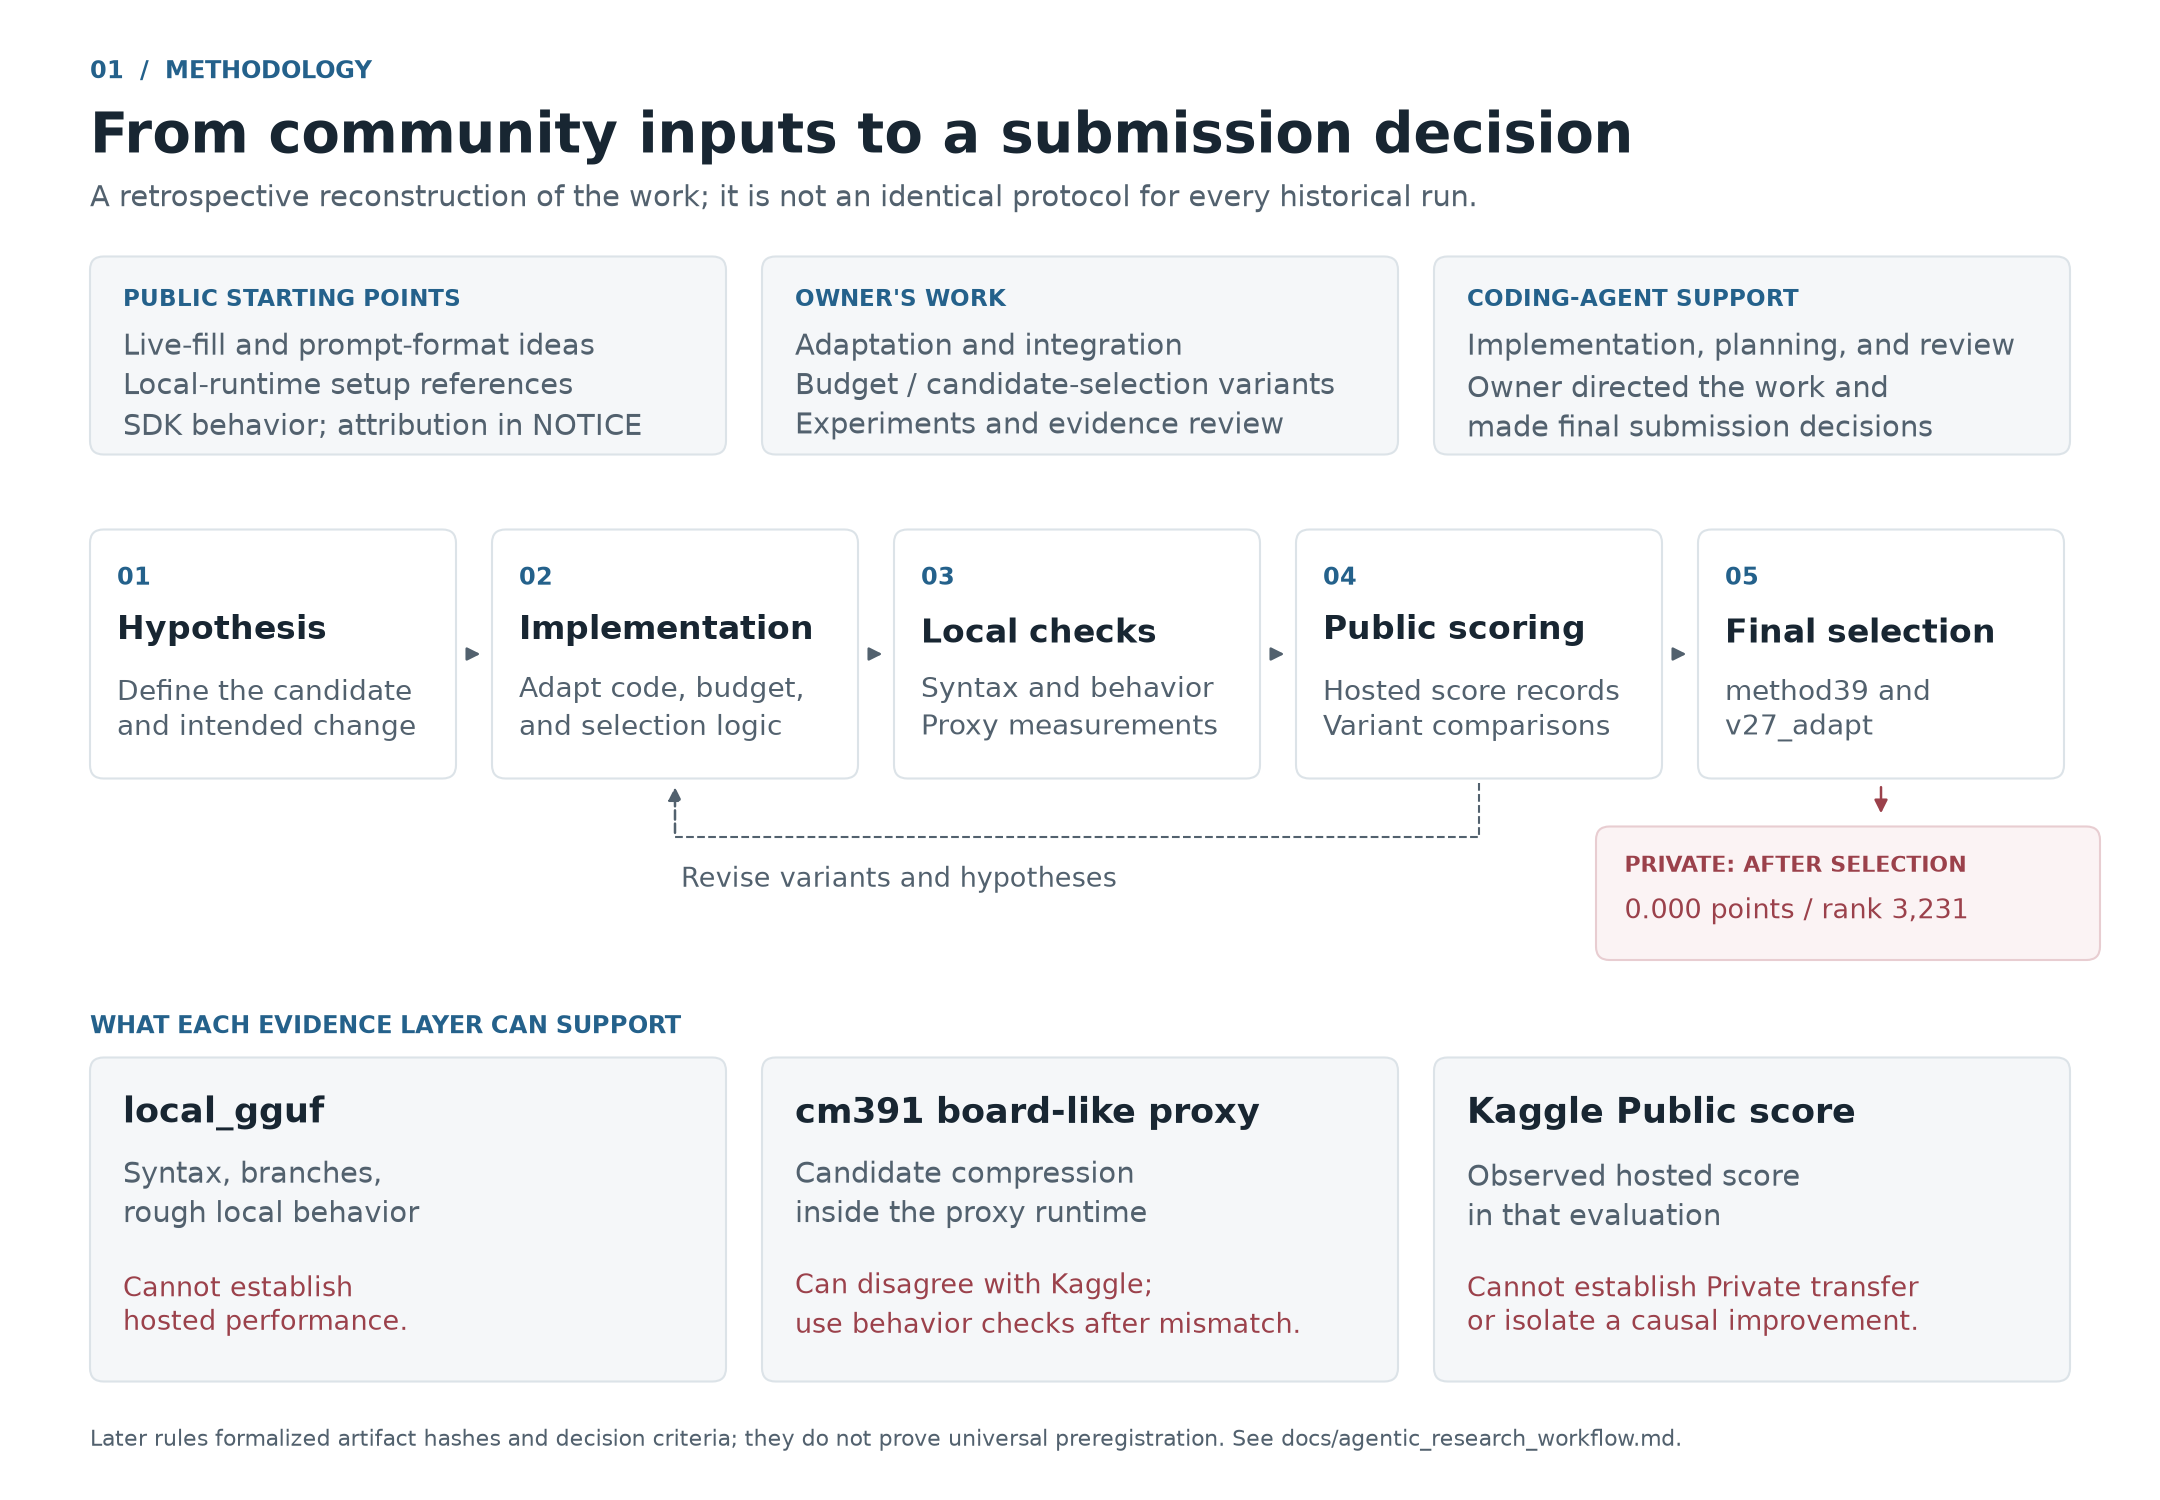
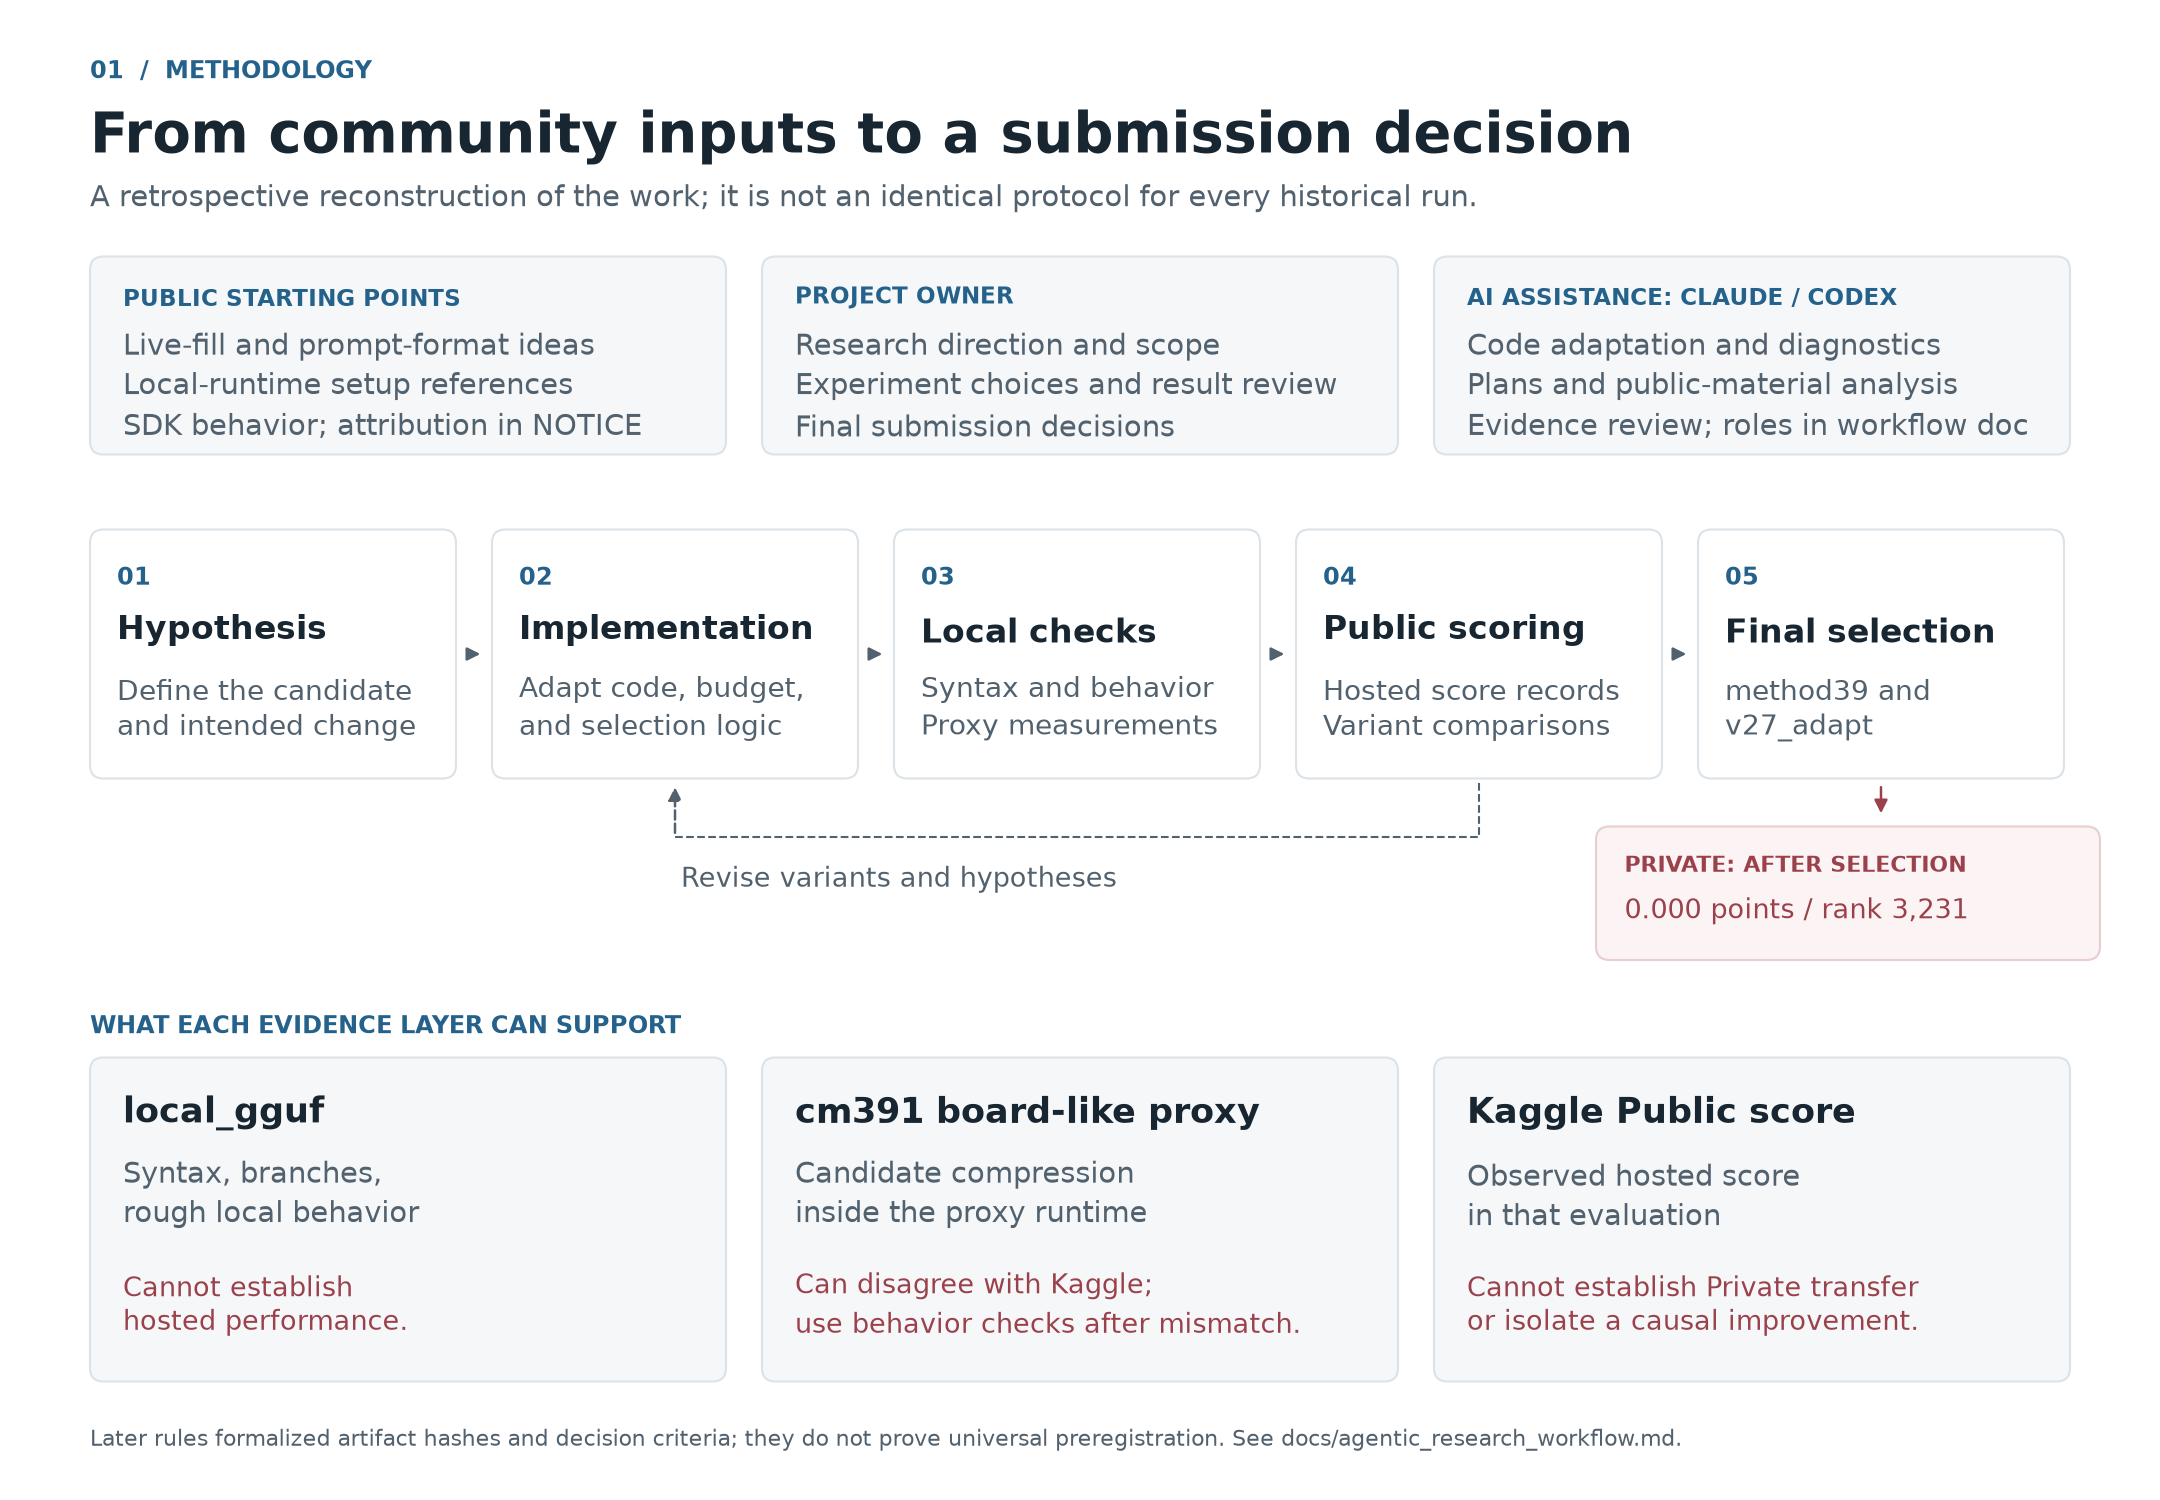
Clarify project contributions and documented AI-assistance roles

Changed region(s): [[0.6824, 0.184, 0.9306, 0.3067], [0.3722, 0.184, 0.6204, 0.3067]]

diff --git a/results/figures/make_project_visuals.py b/results/figures/make_project_visuals.py
@@ -178,8 +178,8 @@ def workflow():
            "A retrospective reconstruction of the work; it is not an identical protocol for every historical run.")
     lanes = [
         ("PUBLIC STARTING POINTS", "Live-fill and prompt-format ideas\nLocal-runtime setup references\nSDK behavior; attribution in NOTICE"),
-        ("OWNER'S WORK", "Adaptation and integration\nBudget / candidate-selection variants\nExperiments and evidence review"),
-        ("CODING-AGENT SUPPORT", "Implementation, planning, and review\nOwner directed the work and\nmade final submission decisions"),
+        ("PROJECT OWNER", "Research direction and scope\nExperiment choices and result review\nFinal submission decisions"),
+        ("AI ASSISTANCE: CLAUDE / CODEX", "Code adaptation and diagnostics\nPlans and public-material analysis\nEvidence review; roles in workflow doc"),
     ]
     for i, (label, body) in enumerate(lanes):
         x = 60 + 448 * i

diff --git a/docs/agentic_research_workflow.md b/docs/agentic_research_workflow.md
@@ -1,11 +1,48 @@
 # How coding agents supported the research
 
-Coding agents assisted with implementation, plans, reviews, and competitor-material
-analysis; I directed the work and made submission decisions. Public notebooks and
-discussions provided substantial starting ideas and code, credited in [NOTICE](../NOTICE).
-The contribution was adaptation, integration, experiments, and evidence review.
-The available log does not justify a precise percentage of AI-written code or a
-fixed author/reviewer role for each model across the entire project.
+This entry combined public starting material, owner-directed experiments, and
+coding-agent assistance. Its engineering contribution was adaptation, integration,
+variant comparisons, diagnostics, and evidence review.
+
+## Contributions and decision ownership
+
+| Contributor or source | Documented contribution | Responsibility or scope |
+|---|---|---|
+| Project owner (Team Sian) | Directed the research, selected experiment changes, and reviewed results with coding-agent support | Made final submission decisions, including the selections discussed in the [post-mortem](postmortem.md) |
+| Claude / Codex | Assisted with implementation, diagnostic code, submission plans, reviews, and public-material analysis | Supported the work; the retained record does not identify the author of every code block or establish causal score gains from an agent |
+| Public notebooks and discussions | Supplied substantial starting ideas, code, and runtime references | Upstream authors and license scope are recorded in [NOTICE](../NOTICE); adaptation is distinguished from independent invention |
+
+### The recorded Claude/Codex task division
+
+Later operating rules assigned the following primary tasks:
+
+| Tool | Assigned tasks |
+|---|---|
+| Claude | New code, submission batch cards, compilation checks, hashes, and path organization |
+| Codex | Evidence-boundary audits, result interpretation, document-conflict checks, and stale/degenerate judgments |
+
+This is a documented task assignment, not proof that the same division held for
+every earlier experiment or that every assigned check was completed. The
+[historical log](experiment_log_ko.md) contains changing plans, interpretations,
+and corrections. It does not support a precise percentage of AI-written code,
+fixed authorship by tool, or a claim that agent review made all measurements valid.
+
+The source is the development archive's `codex/ACTIVE/README_CURRENT.md`, section
+`Claude/Codex 역할 분리`, inspected on October 12, 2026. That control file is not
+bundled here; the following short excerpt preserves the role-assignment evidence.
+It is historical documentation, not an instruction to execute work:
+
+```text
+Claude
+  새 코드 작성
+  제출 배치 카드 작성
+  compile / hash / 경로 정리
+Codex
+  증거 경계 감사
+  결과 해석
+  문서 충돌 점검
+  stale / degenerate 판정
+```
 
 ## The workflow as it developed
 
@@ -68,3 +105,15 @@ recognized uncertainty into selection, rather than merely documenting it.
 A future decision record should ask what evidence supports transfer, what remains
 unknown, and which alternatives cover different failure mechanisms. “Unknown”
 should remain a real answer; a neat template cannot make a hidden outcome known.
+
+## Contribution-writing references
+
+The following first-party project write-ups were consulted on October 12, 2026
+for how to describe contributions. Their workflows and results are the respective
+authors' reports; they are not evidence of what happened in this project.
+
+| Reference | How it describes contributions | Applied here |
+|---|---|---|
+| [CSIRO Image2Biomass agentic solution](https://github.com/Chihiro-n/csiro-biomass-agentic-solution#experiment-workflow) | Names the coding agents, discloses implementation assistance, and describes the human-facing experiment and submission workflow | Name the tools and supported tasks, with decision ownership stated separately; do not borrow its claim about the amount of AI-written implementation |
+| [Kaggriculture solution — Team contributions](https://github.com/msdsm/kaggriculture-solution#team-contributions) | Uses a contributor-to-work table with concrete model, planner, and analysis tasks; source notes appear separately | Use specific activities in a compact table and keep upstream source credit visible |
+| [ROGII Public-LB post-mortem](https://github.com/ElMatiOfficial/kaggle-solutions/blob/main/writeups/20-rogii-wellbore-geology.md) | Separates the inherited public solution from the authors' own measurements and analysis | Distinguish public starting code, adaptation, and this entry's experiment record |

diff --git a/README_KO.md b/README_KO.md
@@ -63,16 +63,28 @@ Public 점수가 더 낮았던 일부 대안은 점수를 유지했습니다.
 그 불확실성을 최종 제출 선택에 충분히 반영하지 못한 데 있습니다.
 대회 중에는 정확한 Private 성능을 알 수 없었으며, 이 회고도 당시 그 결과를 알고 있었던 것처럼 설명하지 않습니다.
 
-제가 직접 수행한 작업은 공개 코드와 discussion의 아이디어를 제 작업 흐름에 맞게 수정·통합하고,
-후보 선택과 시간 예산 처리를 바꾸며, 변형들을 비교하고 코딩 에이전트와 근거를 검토한 것입니다.
-모든 전략을 독자적으로 고안했다고 주장하지 않습니다.
 실패한 가설과 타당하지 않아 폐기한 로컬 지표도 기록에 포함되어 있습니다.
-[결과 회고](docs/postmortem.md), [가설 기록](docs/hypotheses_ledger.md),
-[연구 흐름](docs/agentic_research_workflow.md)에서 확인할 수 있습니다.
+[결과 회고](docs/postmortem.md)와 [가설 기록](docs/hypotheses_ledger.md)에서 확인할 수 있습니다.
+
+## 기여와 AI 활용
+
+공개 코드와 discussion의 아이디어를 코딩 에이전트의 도움으로 수정·통합했습니다.
+프로젝트 작업에는 후보 선택·시간 예산의 변형, 진단 코드 통합, 비교 실험과 근거 검토가 포함됩니다.
+
+| 참여자 또는 자료 출처 | 이 프로젝트에서 맡은 역할 |
+|---|---|
+| 프로젝트 작성자(Team Sian) | 작업 방향 설정, 실험 변경 사항 선택, 결과 검토, 최종 제출 결정 |
+| Claude / Codex | 코드 수정·통합, 진단 코드, 제출 계획, 공개 자료 분석, 근거 검토 지원 |
+| 공개 노트북과 discussion | 출발점이 된 주요 아이디어·코드·실행 환경 참고 자료 제공. 저자와 라이선스는 [NOTICE](NOTICE)에 명시 |
+
+기록에 남은 Claude·Codex의 업무 배정과 그 범위는
+[연구 흐름 문서](docs/agentic_research_workflow.md#contributions-and-decision-ownership)에 설명했습니다.
+현재 기록만으로 AI가 작성한 코드의 비율이나 대회 전체에 걸친 고정 역할을 산정할 수는 없습니다.
+모든 전략을 독자적으로 고안했다고 주장하지 않습니다.
 
 ## 연구 흐름
 
-![연구 흐름: 출처를 명시한 공개 자료, 직접 수정·통합한 코드, 코딩 에이전트의 지원, 반복 검토, 로컬·프록시·대회 평가의 구분](results/figures/research_workflow.png)
+![연구 흐름: 출처를 명시한 공개 자료, 작성자의 방향 설정과 제출 선택, Claude·Codex의 구현·검토 지원, 반복 검토, 로컬·프록시·대회 평가의 구분](results/figures/research_workflow.png)
 
 이 도표는 대회 이후 기록을 바탕으로 재구성한 흐름입니다.
 후반에 정리한 파일 추적·의사결정 규칙만으로 모든 초기 실험이 동일한 절차를 따랐거나,

diff --git a/README.md b/README.md
@@ -61,16 +61,29 @@ The failure was therefore not complete ignorance of that risk: it was failing to
 carry the uncertainty into the final selection. Exact Private performance was
 unavailable during the competition, and the post-mortem must not pretend otherwise.
 
-The engineering contribution was adapting public code and discussion ideas to my
-own workflow, changing candidate selection and budget handling, comparing variants,
-and reviewing evidence with coding agents. It was not independent invention of all
-of the strategies. The records also include failed hypotheses and invalidated local
-metrics. See [postmortem](docs/postmortem.md), [hypotheses](docs/hypotheses_ledger.md),
-and [workflow](docs/agentic_research_workflow.md).
+The records also include failed hypotheses and invalidated local metrics. See
+[postmortem](docs/postmortem.md) and [hypotheses](docs/hypotheses_ledger.md).
+
+## Contributions and AI assistance
+
+The project adapted public code and discussion ideas with coding-agent assistance.
+The work included candidate-selection and budget variants, diagnostic integration,
+comparative experiments, and evidence review.
+
+| Contributor or source | Role in this project |
+|---|---|
+| Project owner (Team Sian) | Directed the work, chose experiment changes, reviewed results, and made final submission decisions |
+| Claude / Codex | Assisted with code adaptation, diagnostics, submission plans, public-material analysis, and evidence review |
+| Public notebooks and discussions | Provided substantial starting ideas, code, and runtime references; authors and licenses are credited in [NOTICE](NOTICE) |
+
+The [workflow document](docs/agentic_research_workflow.md#contributions-and-decision-ownership)
+explains the recorded Claude/Codex task assignments and their limits. The available
+record does not establish an AI-written code percentage, fixed roles throughout
+the competition, or independent invention of all strategies.
 
 ## Research workflow
 
-![Research workflow: attributed public inputs, owner adaptation and integration, coding-agent support, iterative checks, and distinct local, proxy, and hosted evidence layers](results/figures/research_workflow.png)
+![Research workflow: attributed public inputs, owner direction and selection, Claude/Codex implementation and review support, iterative checks, and distinct local, proxy, and hosted evidence layers](results/figures/research_workflow.png)
 
 This is a retrospective reconstruction of the work. The later artifact and decision
 rules do not establish that every earlier run followed the same protocol or had a

diff --git a/docs/publication_review_ko.md b/docs/publication_review_ko.md
@@ -106,3 +106,20 @@ method39·method44의 파일 작성 wrapper는 실행하지 않았다.
 모든 Python 파일·결과 파일의 바이트와 기존 manifest 해시 7개를 유지했고,
 로컬 링크와 새 문서의 heading 연결·code fence를 확인했다.
 모델 실행, 새 probe, Kaggle 제출, 저장소 공개 전환은 수행하지 않았다.
+
+## 후속 — 기여와 AI 활용의 역할 표기 (2026-10-12)
+
+유사 프로젝트의 기여 표기 사례를 참고해 영어·한국어 README에 참여자·자료 출처별 역할 표를 추가했다.
+작성자의 작업 방향·실험 선택·결과 검토·최종 제출 결정, Claude/Codex의 작업 지원,
+공개 자료에서 가져온 아이디어와 코드를 구분했다. 참고한 세 사례와 적용한 표현 방식은
+[연구 흐름 문서](agentic_research_workflow.md#contribution-writing-references)에 남겼다.
+
+개발 기록의 `codex/ACTIVE/README_CURRENT.md`에 있는 `Claude/Codex 역할 분리` 내용을
+대조하고 짧은 역할 배정 발췌를 보존했다. 이 배정은 모든 과거 실험의 고정 역할이나
+모든 코드의 작성자·AI 작성 비율을 입증하지 않으며, 현재 작업의 실행 지시도 아니다.
+
+흐름도의 역할 설명을 같은 기준으로 수정하고 PNG·SVG를 다시 생성했다.
+텍스트 폭과 캔버스 경계, 이미지 파일 구조를 확인하고 도표를 시각 검토했다.
+로컬 문서 링크·heading 연결과 manifest 해시 7개를 확인했다.
+기존 제출 코드·진단 코드·계획·점수 CSV와 나머지 도표의 바이트는 유지했다.
+모델 실행, 새 probe, Kaggle 제출, 저장소 공개 전환은 수행하지 않았다.

diff --git a/docs/README.md b/docs/README.md
@@ -9,7 +9,7 @@ recorded during the competition, including conclusions later revised.
 | [Post-mortem](postmortem.md) | Results, final selection, and lessons |
 | [Scoring mechanics](scoring_mechanics.md) | Observed SDK behavior and unresolved hosted conditions |
 | [Hypothesis ledger](hypotheses_ledger.md) | Supported, falsified, and inconclusive experiment interpretations |
-| [Research workflow](agentic_research_workflow.md) | Artifact checks, agent-assisted work, and measurement limits |
+| [Research workflow](agentic_research_workflow.md) | Contributions, recorded Claude/Codex task assignments, artifact checks, and measurement limits |
 | [Code walk-through](code_walkthrough.md) | Why the four submission policies exist, how they run, and why their branches differ |
 | [Code reference](code_reference.md) | Functions, constants, fallback cases, supporting probes, and the hash tool |
 | [Historical experiment log (Korean)](experiment_log_ko.md) | Preserved chronology; historical instructions are archival material |
